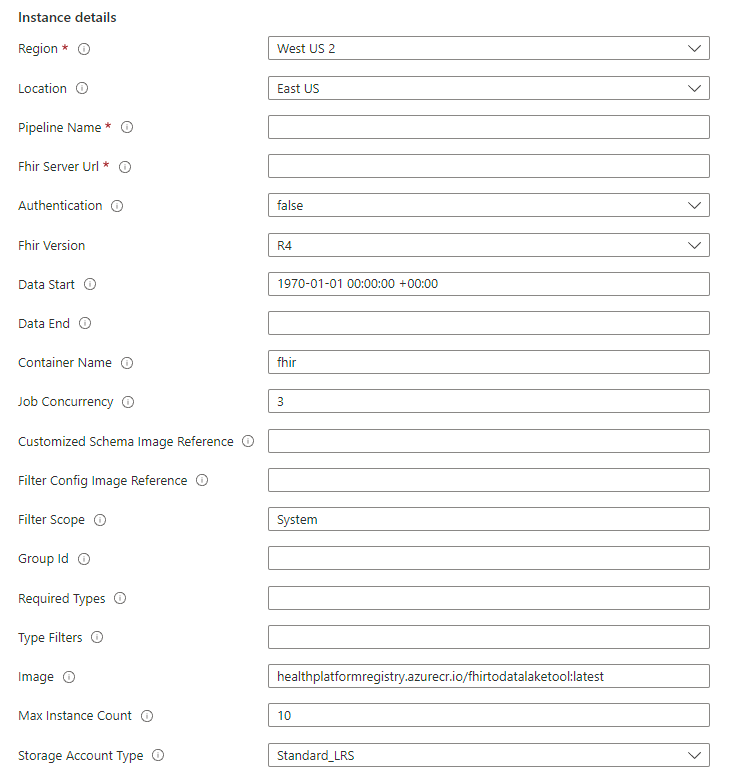
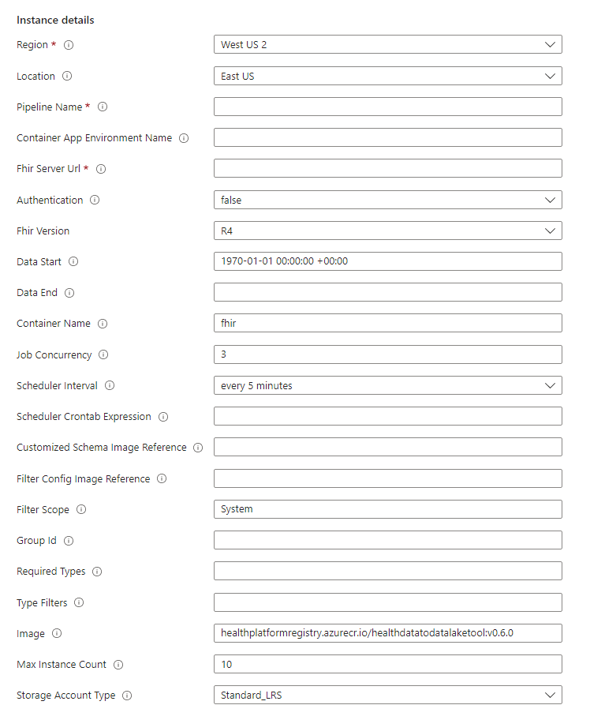
update the template, adding customize interval part  (#293)
* Update Deployment.md

* Update Deploy-FhirToDatalake.md

* Delete deployContainerAppParameters.png

* Add files via upload

Changed region(s): [[0.0305, 0.0, 0.9763, 0.9778], [0.0305, 0.7028, 0.2441, 0.9778]]

diff --git a/FhirToDataLake/docs/Deploy-FhirToDatalake.md b/FhirToDataLake/docs/Deploy-FhirToDatalake.md
@@ -54,13 +54,15 @@ This solution enables you to query against the entire FHIR data with tools such 
     | Data Start | Start time stamp of the data to be exported. |
     | Data End | Start time stamp of the data to be exported. Leave it empty if you want to periodically export data in real time.  |
     | Container Name | A name for the Storage Account container to which Parquet files will be written. The Storage Account with autogenerated name will automatically be created during the installation. |
-    | Job Concurrency | Concurrent jobs exeucting in parallel. |
-    | Customized Schema Image Reference (new)  | The customized schema image reference for the image on Container Registry. Refer [TemplateManagement](https://github.com/microsoft/FHIR-Converter/blob/main/docs/TemplateManagementCLI.md) for how to manage your template images. |
-    | Filter Config Image Reference (new)  | The filter config image reference for the image on Container Registry. Refer [TemplateManagement](https://github.com/microsoft/FHIR-Converter/blob/main/docs/TemplateManagementCLI.md) for how to manage your template images. |
-    | Filter Scope (new) | For data filtering use. The export scope can be `System` or `Group`. The default value is `System` if no filter is applied.|
-    | Group Id (new) | For data filtering use. If the Filter scope is set as `Group`, you need to fill the group Id, otherwise leave it blank.|
-    | Required Types (new) | For data filtering use. Specify which types of resources will be included. For example, _type=Patient_ would return only patient resources. All resource types will be exported if not specified. Leave it blank if no filter is applied.|
-    | Type Filters (new) | For data filtering use. Use along with the requiredTypes configuration. The value is a comma-separated list of FHIR queries that further restrict the results. All data of requiredTypes will be exported if not specified. Leave it blank if no filter is applied. |
+    | Job Concurrency | Concurrent jobs executing in parallel. |
+    | Scheduler Interval (new) | The scheduler interval. To customize the scheduler, set the value to "customized" and specify the value in Scheduler Crontab Expression below. |
+    | Scheduler Crontab Expression (new) | Use a crontab expression to set the scheduler. A crontab expression is a six-part crontab format (sec min hour day month day-of-week). Refer to [this link](https://github.com/atifaziz/NCrontab) for more about crontab expression. |
+    | Customized Schema Image Reference | The customized schema image reference for the image on Container Registry. Refer [TemplateManagement](https://github.com/microsoft/FHIR-Converter/blob/main/docs/TemplateManagementCLI.md) for how to manage your template images. |
+    | Filter Config Image Reference | The filter config image reference for the image on Container Registry. Refer [TemplateManagement](https://github.com/microsoft/FHIR-Converter/blob/main/docs/TemplateManagementCLI.md) for how to manage your template images. |
+    | Filter Scope | For data filtering use. The export scope can be `System` or `Group`. The default value is `System` if no filter is applied.|
+    | Group Id | For data filtering use. If the Filter scope is set as `Group`, you need to fill the group Id, otherwise leave it blank.|
+    | Required Types | For data filtering use. Specify which types of resources will be included. For example, _type=Patient_ would return only patient resources. All resource types will be exported if not specified. Leave it blank if no filter is applied.|
+    | Type Filters | For data filtering use. Use along with the requiredTypes configuration. The value is a comma-separated list of FHIR queries that further restrict the results. All data of requiredTypes will be exported if not specified. Leave it blank if no filter is applied. |
     | Image | FhirToDatalake Container image to deploy. You need not change this. |
     | Max Instance Count | Maximum number of replicas running for pipeline Container App. |
     | Storage Account type | Azure Storage Account type to deploy. |
